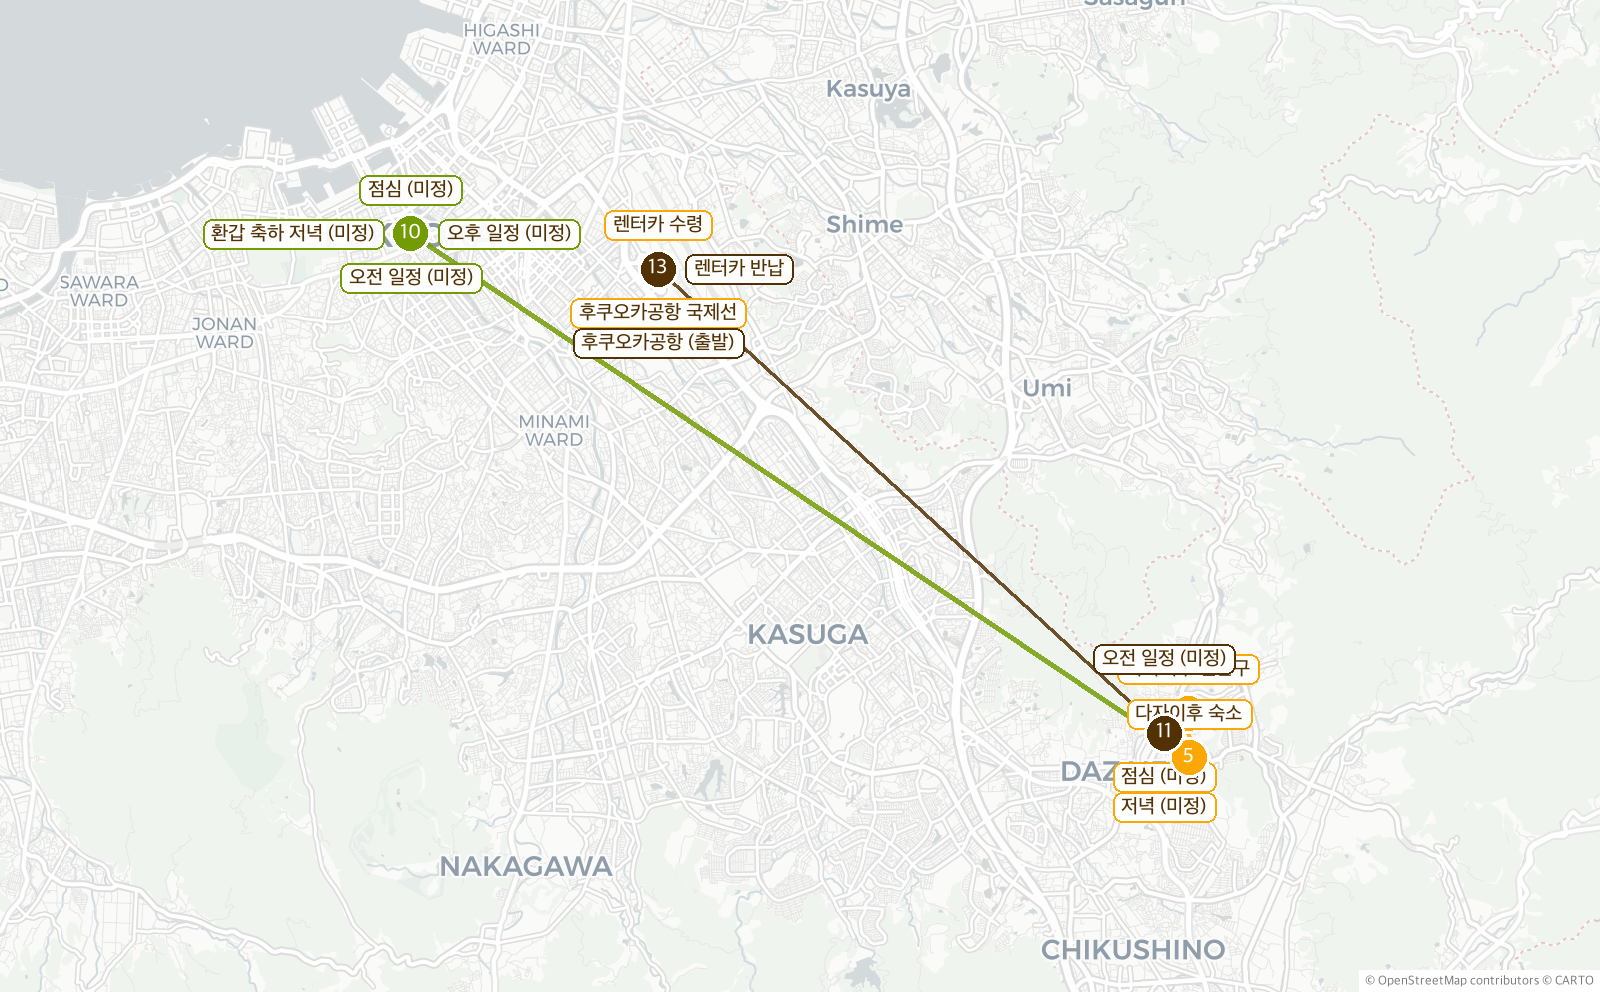
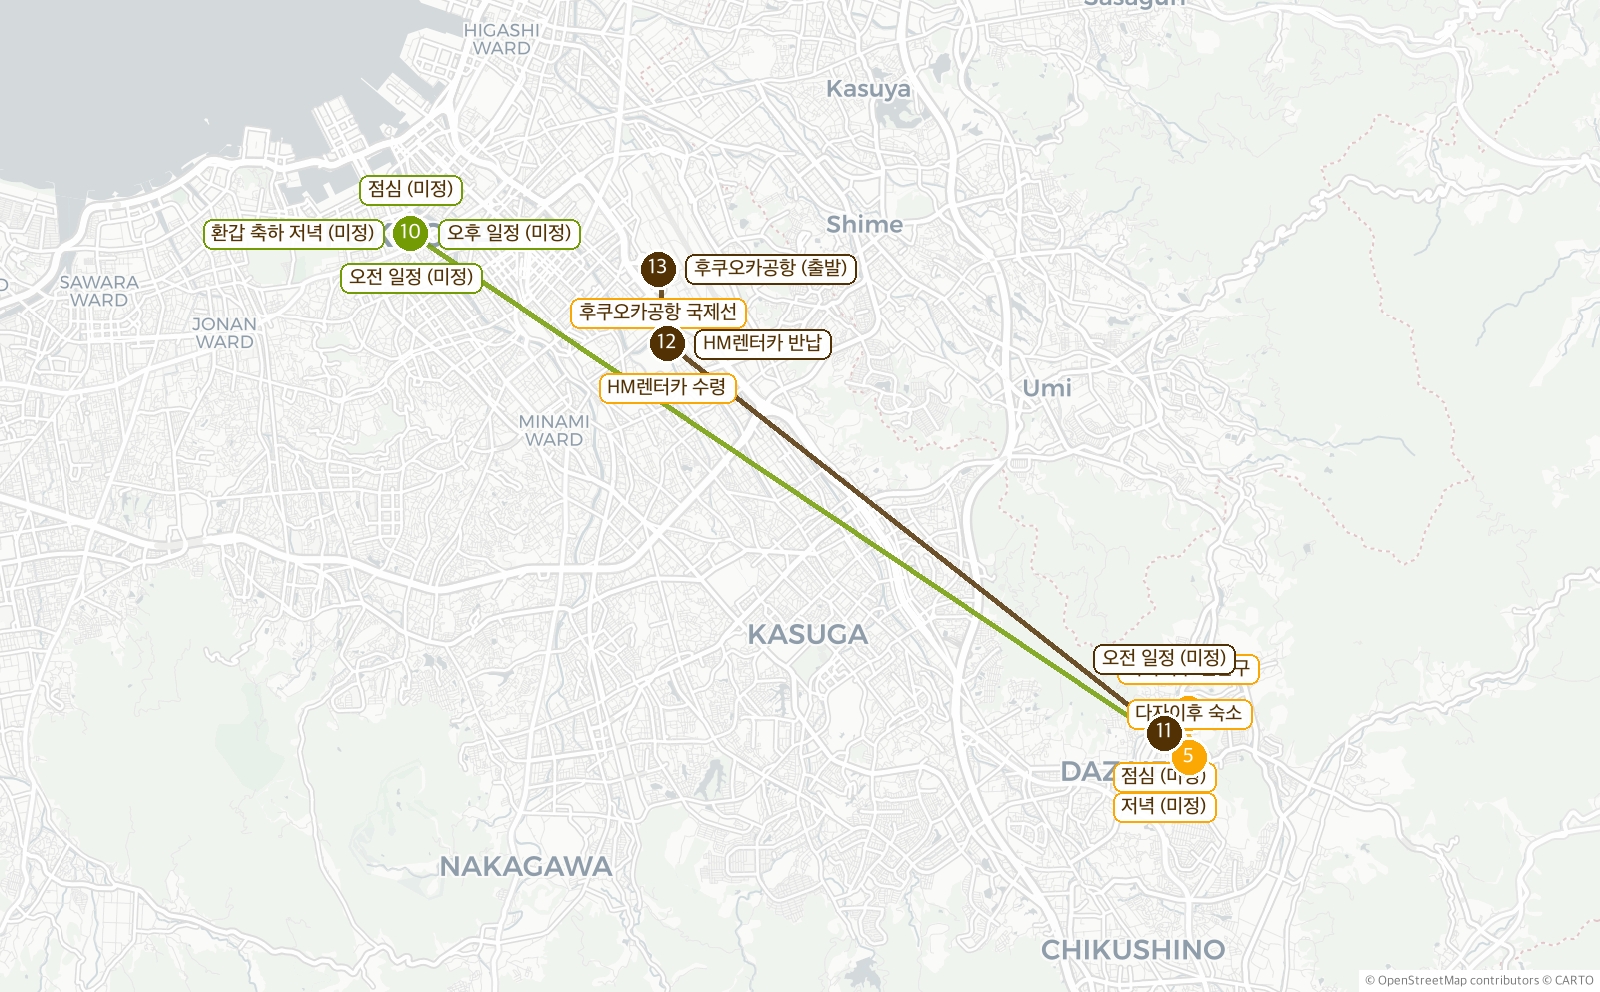
계획표 갱신 2026-08-04 13:22

diff --git a/1279cb2091/index.html b/1279cb2091/index.html
@@ -196,7 +196,7 @@
     <div id="chips" class="chips"></div>
     <script>
     (function(){
-      var pts = [{"n": 1, "id": "fuk_in", "name": "후쿠오카공항 국제선", "lat": 33.5848221, "lon": 130.4442945, "day": 1, "time": "10:05", "addr": "福岡空港 国際線ターミナル, 国道3号, 東那珂二丁目, 雀居, 博多区, 福岡市, 福岡県, 812-0897", "phone": "", "url": ""}, {"n": 2, "id": "rentcar", "name": "렌터카 수령", "lat": 33.5855221, "lon": 130.4449945, "day": 1, "time": "11:00", "addr": "福岡空港 国際線ターミナル, 国道3号, 東那珂二丁目, 雀居, 博多区, 福岡市, 福岡県, 812-0897", "phone": "", "url": ""}, {"n": 3, "id": "d1_lunch", "name": "점심 (미정)", "lat": 33.5184903, "lon": 130.5311595, "day": 1, "time": "12:30", "addr": "太宰府, 筑紫野古賀線, 宰府一丁目, 白川, 太宰府市, 福岡県, 九州地方, 818-0125", "phone": "", "url": ""}, {"n": 4, "id": "tenmangu", "name": "다자이후 덴만구", "lat": 33.5213084, "lon": 130.5352564, "day": 1, "time": "14:00", "addr": "太宰府天満宮, 太鼓橋, 宰府三丁目, 白川, 太宰府市, 福岡県, 818-0117", "phone": "", "url": ""}, {"n": 5, "id": "stay", "name": "다자이후 숙소", "lat": 33.514921, "lon": 130.535454, "day": 1, "time": "16:30", "addr": "3-chōme-2-3 Ishizaka, Dazaifu, Fukuoka 818-0118", "phone": "", "url": ""}, {"n": 6, "id": "d1_dinner", "name": "저녁 (미정)", "lat": 33.519190300000005, "lon": 130.5318595, "day": 1, "time": "18:30", "addr": "太宰府, 筑紫野古賀線, 宰府一丁目, 白川, 太宰府市, 福岡県, 九州地方, 818-0125", "phone": "", "url": ""}, {"n": 7, "id": "d2_am", "name": "오전 일정 (미정)", "lat": 33.5898988, "lon": 130.4017509, "day": 2, "time": "10:00", "addr": "福岡市, 福岡県", "phone": "", "url": ""}, {"n": 8, "id": "d2_lunch", "name": "점심 (미정)", "lat": 33.5905988, "lon": 130.4024509, "day": 2, "time": "12:30", "addr": "福岡市, 福岡県", "phone": "", "url": ""}, {"n": 9, "id": "d2_pm", "name": "오후 일정 (미정)", "lat": 33.5912988, "lon": 130.40315089999999, "day": 2, "time": "14:30", "addr": "福岡市, 福岡県", "phone": "", "url": ""}, {"n": 10, "id": "d2_dinner", "name": "환갑 축하 저녁 (미정)", "lat": 33.5919988, "lon": 130.4038509, "day": 2, "time": "18:00", "addr": "福岡市, 福岡県", "phone": "", "url": ""}, {"n": 11, "id": "d3_am", "name": "오전 일정 (미정)", "lat": 33.5198903, "lon": 130.5325595, "day": 3, "time": "09:30", "addr": "太宰府, 筑紫野古賀線, 宰府一丁目, 白川, 太宰府市, 福岡県, 九州地方, 818-0125", "phone": "", "url": ""}, {"n": 12, "id": "rentcar_return", "name": "렌터카 반납", "lat": 33.58622209999999, "lon": 130.4456945, "day": 3, "time": "12:30", "addr": "福岡空港 国際線ターミナル, 国道3号, 東那珂二丁目, 雀居, 博多区, 福岡市, 福岡県, 812-0897", "phone": "", "url": ""}, {"n": 13, "id": "fuk_out", "name": "후쿠오카공항 (출발)", "lat": 33.586922099999995, "lon": 130.44639450000003, "day": 3, "time": "12:55", "addr": "福岡空港 国際線ターミナル, 国道3号, 東那珂二丁目, 雀居, 博多区, 福岡市, 福岡県, 812-0897", "phone": "", "url": ""}];
+      var pts = [{"n": 1, "id": "fuk_in", "name": "후쿠오카공항 국제선", "lat": 33.5848221, "lon": 130.4442945, "day": 1, "time": "10:05", "addr": "福岡空港 国際線ターミナル, 国道3号, 東那珂二丁目, 雀居, 博多区, 福岡市, 福岡県, 812-0897", "phone": "", "url": ""}, {"n": 2, "id": "rentcar", "name": "HM렌터카 수령", "lat": 33.5741934, "lon": 130.4457754, "day": 1, "time": "11:00", "addr": "3-7-10 Higashinaka, Hakata-ku, Fukuoka 812-0892", "phone": "092-627-7010", "url": ""}, {"n": 3, "id": "d1_lunch", "name": "점심 (미정)", "lat": 33.5184903, "lon": 130.5311595, "day": 1, "time": "12:30", "addr": "太宰府, 筑紫野古賀線, 宰府一丁目, 白川, 太宰府市, 福岡県, 九州地方, 818-0125", "phone": "", "url": ""}, {"n": 4, "id": "tenmangu", "name": "다자이후 덴만구", "lat": 33.5213084, "lon": 130.5352564, "day": 1, "time": "14:00", "addr": "太宰府天満宮, 太鼓橋, 宰府三丁目, 白川, 太宰府市, 福岡県, 818-0117", "phone": "", "url": ""}, {"n": 5, "id": "stay", "name": "다자이후 숙소", "lat": 33.514921, "lon": 130.535454, "day": 1, "time": "16:30", "addr": "3-chōme-2-3 Ishizaka, Dazaifu, Fukuoka 818-0118", "phone": "", "url": ""}, {"n": 6, "id": "d1_dinner", "name": "저녁 (미정)", "lat": 33.519190300000005, "lon": 130.5318595, "day": 1, "time": "18:30", "addr": "太宰府, 筑紫野古賀線, 宰府一丁目, 白川, 太宰府市, 福岡県, 九州地方, 818-0125", "phone": "", "url": ""}, {"n": 7, "id": "d2_am", "name": "오전 일정 (미정)", "lat": 33.5898988, "lon": 130.4017509, "day": 2, "time": "10:00", "addr": "福岡市, 福岡県", "phone": "", "url": ""}, {"n": 8, "id": "d2_lunch", "name": "점심 (미정)", "lat": 33.5905988, "lon": 130.4024509, "day": 2, "time": "12:30", "addr": "福岡市, 福岡県", "phone": "", "url": ""}, {"n": 9, "id": "d2_pm", "name": "오후 일정 (미정)", "lat": 33.5912988, "lon": 130.40315089999999, "day": 2, "time": "14:30", "addr": "福岡市, 福岡県", "phone": "", "url": ""}, {"n": 10, "id": "d2_dinner", "name": "환갑 축하 저녁 (미정)", "lat": 33.5919988, "lon": 130.4038509, "day": 2, "time": "18:00", "addr": "福岡市, 福岡県", "phone": "", "url": ""}, {"n": 11, "id": "d3_am", "name": "오전 일정 (미정)", "lat": 33.5198903, "lon": 130.5325595, "day": 3, "time": "09:30", "addr": "太宰府, 筑紫野古賀線, 宰府一丁目, 白川, 太宰府市, 福岡県, 九州地方, 818-0125", "phone": "", "url": ""}, {"n": 12, "id": "rentcar_return", "name": "HM렌터카 반납", "lat": 33.5748934, "lon": 130.4464754, "day": 3, "time": "13:00", "addr": "3-7-10 Higashinaka, Hakata-ku, Fukuoka 812-0892", "phone": "092-627-7010", "url": ""}, {"n": 13, "id": "fuk_out", "name": "후쿠오카공항 (출발)", "lat": 33.5855221, "lon": 130.4449945, "day": 3, "time": "13:20", "addr": "福岡空港 国際線ターミナル, 国道3号, 東那珂二丁目, 雀居, 博多区, 福岡市, 福岡県, 812-0897", "phone": "", "url": ""}];
       var colors = {"1": "#FCA804", "2": "#739C04", "3": "#523204"};
       // 선은 캔버스로 그린다 (SVG로 그리면 일부 환경에서 색 덩어리로 깨진다)
       var map = L.map('map', {scrollWheelZoom:false, preferCanvas:true});
@@ -346,12 +346,10 @@
       <div class="time">10:05</div>
       <div class="body"><div class="t"><span class="pin d1">1</span>후쿠오카공항 국제선 도착</div><div class="d">입국 심사 · Visit Japan Web 미리 등록해두면 빠름</div></div>
     </div>
-    <div class="gap"><span class="bd">차로 0분</span></div>
-    <div class="item" data-pin="2">
+    <div class="item">
       <div class="time">11:00</div>
-      <div class="body"><div class="t"><span class="pin d1">2</span>렌터카 수령</div><div class="d">클룩 예약 QFA186056 · 미쓰비시 델리카 D5급 밴<br>수령 장소·셔틀 여부 확인 필요 · 국제운전면허증과 여권 지참</div></div>
+      <div class="body"><div class="t">렌터카 수령</div><div class="d">클룩 예약 QFA186056 · 미쓰비시 델리카 D5급 밴<br>수령 장소·셔틀 여부 확인 필요 · 국제운전면허증과 여권 지참</div></div>
     </div>
-    <div class="gap"><span class="bd">차로 18분</span></div>
     <div class="item" data-pin="3">
       <div class="time">12:30</div>
       <div class="body"><div class="t"><span class="pin d1">3</span>점심 (미정)</div><div class="d">다자이후 방면 · 장소 정해지면 채우기</div></div>
@@ -414,11 +412,10 @@
       <div class="time">11:00</div>
       <div class="body"><div class="t">숙소 퇴실</div><div class="d">체크아웃 시각 확인 필요</div></div>
     </div>
-    <div class="item" data-pin="12">
+    <div class="item">
       <div class="time">12:30</div>
-      <div class="body"><div class="t"><span class="pin d3">12</span>렌터카 반납</div><div class="d">반납 전 주유 · 클룩 QFA186056</div></div>
+      <div class="body"><div class="t">렌터카 반납</div><div class="d">반납 전 주유 · 클룩 QFA186056</div></div>
     </div>
-    <div class="gap"><span class="bd">차로 0분</span></div>
     <div class="item" data-pin="13">
       <div class="time">12:55</div>
       <div class="body"><div class="t"><span class="pin d3">13</span>후쿠오카공항 (출발) 도착</div><div class="d">출발 2시간 전 · 국제선 터미널</div></div>
@@ -441,9 +438,14 @@
   <div class="info">
     <h3>렌터카</h3>
     <div class="row"><div class="k">차종</div><div class="v">미쓰비시 델리카 D5 2024-2025년형 또는 동급 (밴)</div></div>
-    <div class="row"><div class="k">예약</div><div class="v">클룩 · 예약번호 QFA186056</div></div>
-    <div class="row"><div class="k">대여</div><div class="v">10/16 오전 ~ 10/18 낮 (정확한 시각 확인 필요)</div></div>
-    <div class="row"><div class="k">준비물</div><div class="v">국제운전면허증 · 여권 · 결제 카드</div></div>
+    <div class="row"><div class="k">업체</div><div class="v">HM 렌터카 · <a href="tel:092-627-7010">092-627-7010</a> · 운영 08:00~19:00</div></div>
+    <div class="row"><div class="k">매장</div><div class="v">3-7-10 Higashinaka, Hakata-ku, Fukuoka 812-0892<br>공항 국제선에서 1.7km · 픽업과 반납 모두 이곳</div></div>
+    <div class="row"><div class="k">예약</div><div class="v">클룩 · 예약번호 QFA186056 (변경 불가)</div></div>
+    <div class="row"><div class="k">대여</div><div class="v">10/16 11:00 픽업 ~ 10/18 13:00 반납</div></div>
+    <div class="row"><div class="k">결제</div><div class="v">온라인 314,200원 완료 · 픽업 시 잔액 14,200원</div></div>
+    <div class="row"><div class="k">보험</div><div class="v">차량사고 면책보험 · 피보험자 SANGBAE LEE<br>10/16 11:00 ~ 10/18 13:00</div></div>
+    <div class="row"><div class="k">무료 취소</div><div class="v">10/9 11:00(현지)까지 · 이후 단계별 수수료, 10/16 11:00부터 환불 불가</div></div>
+    <div class="row"><div class="k">준비물</div><div class="v">여권 · 국제운전면허증 + 국내 운전면허증 · 보증금 결제 카드 · 바우처 출력본</div></div>
   </div>
   <div class="info">
     <h3>숙소</h3>
@@ -461,7 +463,7 @@
     <div class="row"><div class="k">1일차</div><div class="v">점심 · 저녁</div></div>
     <div class="row"><div class="k">2일차</div><div class="v">오전 · 점심 · 오후 · 환갑 저녁 (예약 여부)</div></div>
     <div class="row"><div class="k">3일차</div><div class="v">오전 일정 · 숙소 퇴실 시각</div></div>
-    <div class="row"><div class="k">기타</div><div class="v">렌터카 수령 장소 · 유아 카시트 (일본은 6세 미만 의무)<br>7명이 델리카 D5(8인승)에 카시트까지 들어가는지 · 짐 공간 확인</div></div>
+    <div class="row"><div class="k">기타</div><div class="v">공항 ↔ HM렌터카 매장 셔틀 유무 (없으면 택시)<br>유아 카시트 (일본은 6세 미만 의무) · 사전 요청 필요<br>7명 + 카시트 + 짐이 델리카 D5(8인승)에 들어가는지</div></div>
   </div>
 
   <footer>

diff --git a/1279cb2091/print.html b/1279cb2091/print.html
@@ -105,7 +105,7 @@
       <h2>여행 동선</h2>
       <!-- MAP:START (build.py 자동 생성) -->
       <img src="map.png" alt="후쿠오카 여행 동선 지도">
-      <div class="drive">후쿠오카공항 국제선→렌터카 수령 0분 · 렌터카 수령→점심 (미정) 18분 · 점심 (미정)→다자이후 덴만구 2분 · 다자이후 덴만구→다자이후 숙소 4분 · 다자이후 숙소→저녁 (미정) 2분 · 다자이후 숙소→오전 일정 (미정) 24분 · 오전 일정 (미정)→점심 (미정) 0분 · 점심 (미정)→오후 일정 (미정) 0분 · 오후 일정 (미정)→환갑 축하 저녁 (미정) 0분 · 환갑 축하 저녁 (미정)→다자이후 숙소 25분 · 다자이후 숙소→오전 일정 (미정) 2분 · 오전 일정 (미정)→렌터카 반납 18분 · 렌터카 반납→후쿠오카공항 (출발) 0분</div>
+      <div class="drive">후쿠오카공항 국제선→HM렌터카 수령 4분 · HM렌터카 수령→점심 (미정) 17분 · 점심 (미정)→다자이후 덴만구 2분 · 다자이후 덴만구→다자이후 숙소 4분 · 다자이후 숙소→저녁 (미정) 2분 · 다자이후 숙소→오전 일정 (미정) 24분 · 오전 일정 (미정)→점심 (미정) 0분 · 점심 (미정)→오후 일정 (미정) 0분 · 오후 일정 (미정)→환갑 축하 저녁 (미정) 0분 · 환갑 축하 저녁 (미정)→다자이후 숙소 25분 · 다자이후 숙소→오전 일정 (미정) 2분 · 오전 일정 (미정)→HM렌터카 반납 17분 · HM렌터카 반납→후쿠오카공항 (출발) 4분</div>
     <!-- MAP:END -->
       <div class="legend">
         <span><i class="dot" style="background:var(--day1)"></i>Day 1 이동</span>
@@ -136,7 +136,7 @@
       <div class="it"><div class="tm">06:50</div><div class="bd"><div class="t">국제백양아파트 · 엄마 아빠 픽업</div><div class="d">부산진구 백양관문로 104</div></div></div>
       <div class="it"><div class="tm">07:15</div><div class="bd"><div class="t">김해공항 국제선</div><div class="d">백양에서 14분 · 수속 마감 07:55</div></div></div>
       <div class="it"><div class="tm">08:55</div><div class="bd"><div class="t">부산 → 후쿠오카</div><div class="d">이스타 ZE941 · 10:05 도착 · 민재네와 공항에서 합류</div></div></div>
-      <div class="it"><div class="tm">11:00</div><div class="bd"><div class="t">렌터카 수령</div><div class="d">클룩 QFA186056 · 델리카 D5급</div></div></div>
+      <div class="it"><div class="tm">11:00</div><div class="bd"><div class="t">HM렌터카 수령</div><div class="d">東那珂3-7-10 · 092-627-7010 · 공항에서 4분</div></div></div>
       <div class="it"><div class="tm">12:30</div><div class="bd"><div class="t">점심 (미정)</div><div class="d">다자이후 방면</div></div></div>
       <div class="it"><div class="tm">14:00</div><div class="bd"><div class="t">다자이후 덴만구</div><div class="d">太宰府天満宮 · 공항에서 18분</div></div></div>
       <div class="it"><div class="tm">16:30</div><div class="bd"><div class="t">숙소 체크인</div><div class="d">3-2-3 Ishizaka · 덴만구에서 4분</div></div></div>
@@ -155,9 +155,9 @@
     <div class="day" style="--dc:var(--day3)">
       <div class="dh"><span class="badge">DAY 3</span><span class="date">10/18 (일)</span></div>
       <div class="it"><div class="tm">09:30</div><div class="bd"><div class="t">오전 일정 (미정)</div><div class="d">공항 가는 길</div></div></div>
-      <div class="it"><div class="tm">11:00</div><div class="bd"><div class="t">숙소 퇴실</div><div class="d">시각 확인 필요</div></div></div>
-      <div class="it"><div class="tm">12:30</div><div class="bd"><div class="t">렌터카 반납</div><div class="d">반납 전 주유</div></div></div>
-      <div class="it"><div class="tm">12:55</div><div class="bd"><div class="t">후쿠오카공항 도착</div><div class="d">출발 2시간 전</div></div></div>
+      <div class="it"><div class="tm">11:30</div><div class="bd"><div class="t">숙소 퇴실</div><div class="d">매장까지 17분</div></div></div>
+      <div class="it"><div class="tm">12:30</div><div class="bd"><div class="t">HM렌터카 반납</div><div class="d">예약 13:00 · 반납 전 주유</div></div></div>
+      <div class="it"><div class="tm">13:20</div><div class="bd"><div class="t">후쿠오카공항 도착</div><div class="d">매장에서 4분 · 출발 1시간 35분 전</div></div></div>
       <div class="it"><div class="tm">14:55</div><div class="bd"><div class="t">후쿠오카 → 부산</div><div class="d">7C1454 · 15:55 도착 · 민재네는 시내 후 19:20 청주행</div></div></div>
       <div class="it"><div class="tm">17:30</div><div class="bd"><div class="t">집 도착</div><div class="d">공항에서 약 40분</div></div></div>
     </div>
